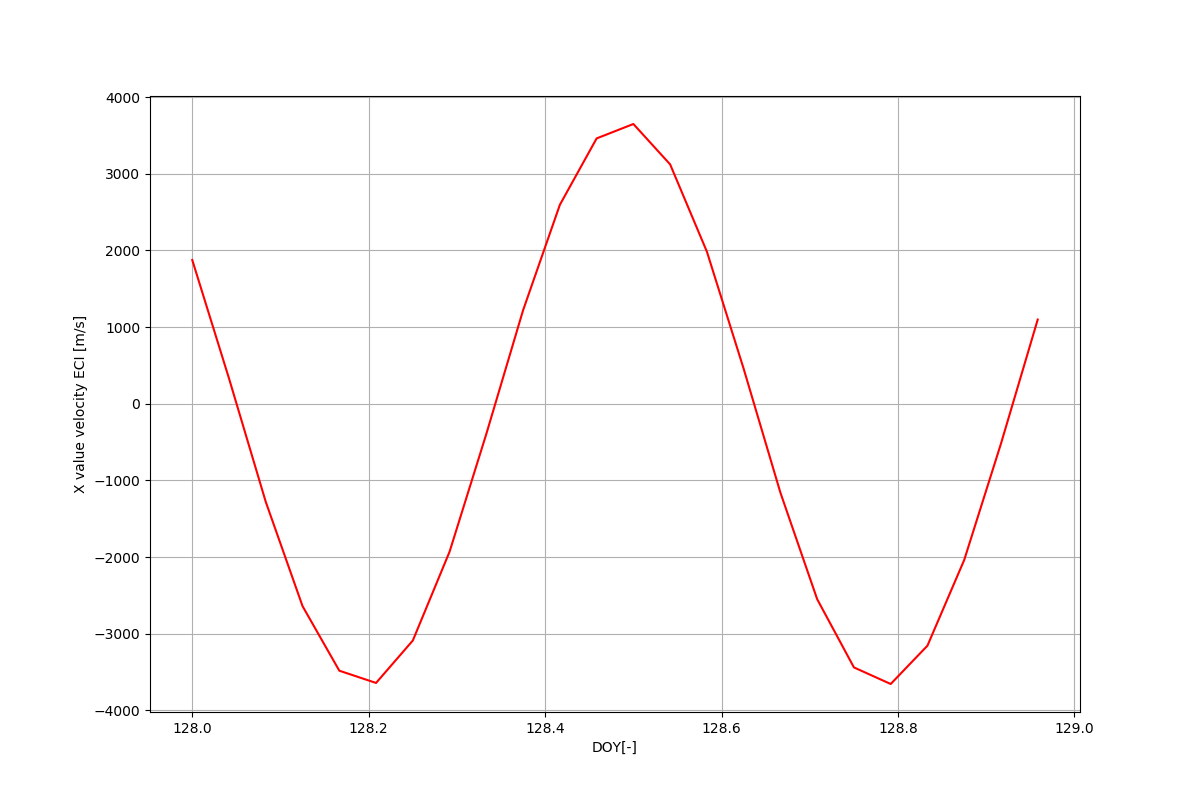
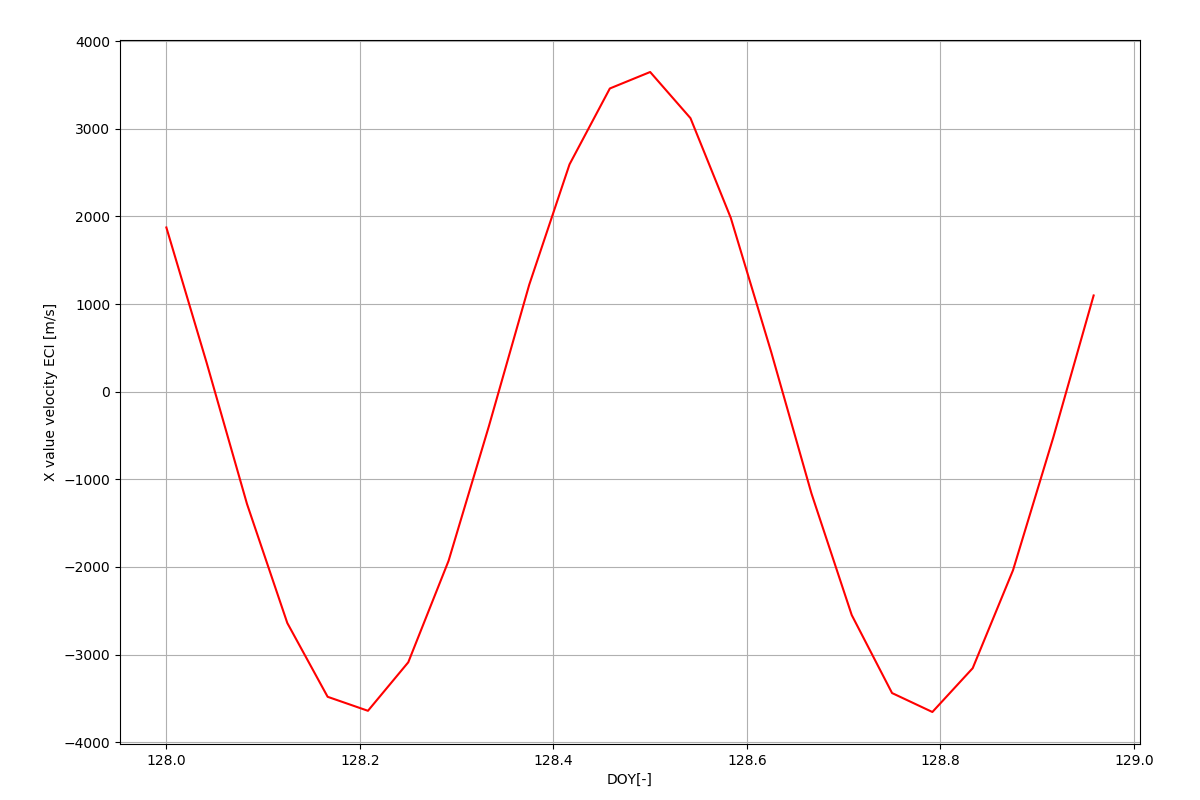
readme update

diff --git a/analysis.py b/analysis.py
@@ -218,6 +218,8 @@ class Analysis: # TODO Make subclasses for the different analysis
     def RunAnalysisAfterTimeLoop(self, SatelliteList, UserList):
 
         fig = plt.figure(figsize=(12, 8))
+        #plt.tight_layout()
+        plt.subplots_adjust(left=.1, right=.95, top=0.95, bottom=0.07)
 
         if self.Type == 0:
             if self.SatelliteID > 0:  # Only for one satellite

diff --git a/readme.md b/readme.md
@@ -169,14 +169,15 @@ The time parameters are in UTC time and TimeStep in seconds. The analysis are de
 ## Analysis parameters
 
 ### cov_ground_track
-<img src="/output/cov_ground_track.png" alt="cov_ground_track"/>
-
 The following parameters are needed:
 - Type: cov_ground_track
 - ConstellationID: which constellation to use
+
 Optional are:
 - SatelliteID: which satellite to use (ID or NORAD number if a TLE file is used). 
+
 If this parameter is omitted all the satellites of the constellation are plotted.
+<img src="/output/cov_ground_track.png" alt="cov_ground_track"/>
 
 ### cov_ground_track
 <img src="/output/cov_satellite_pvt.png" alt="cov_satellite_pvt"/>
